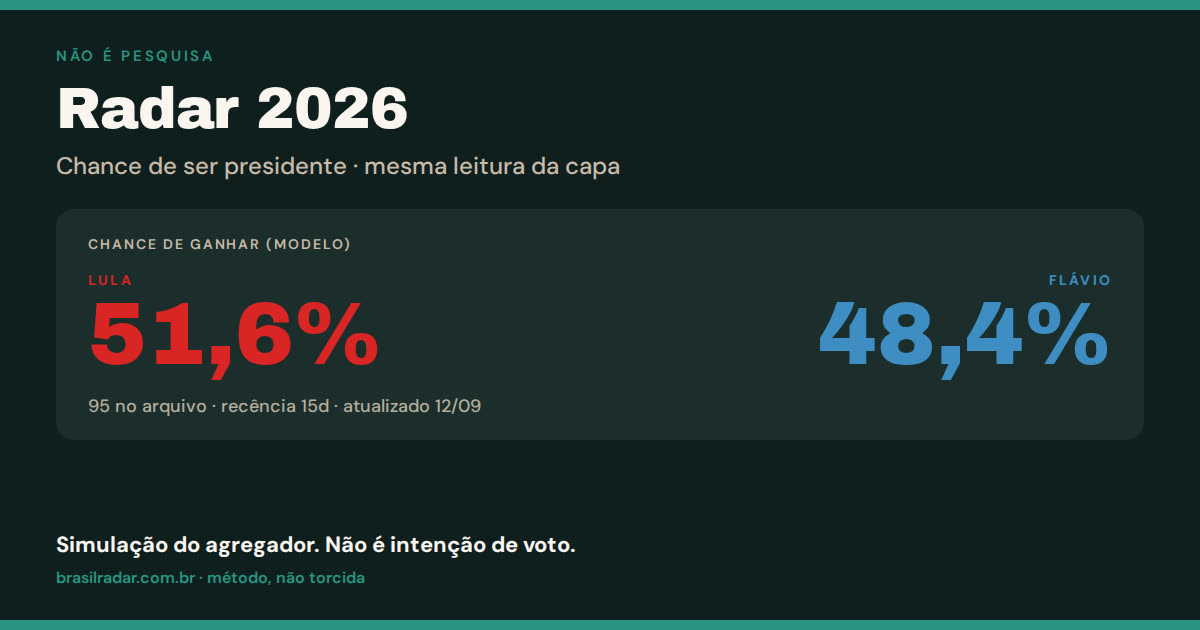
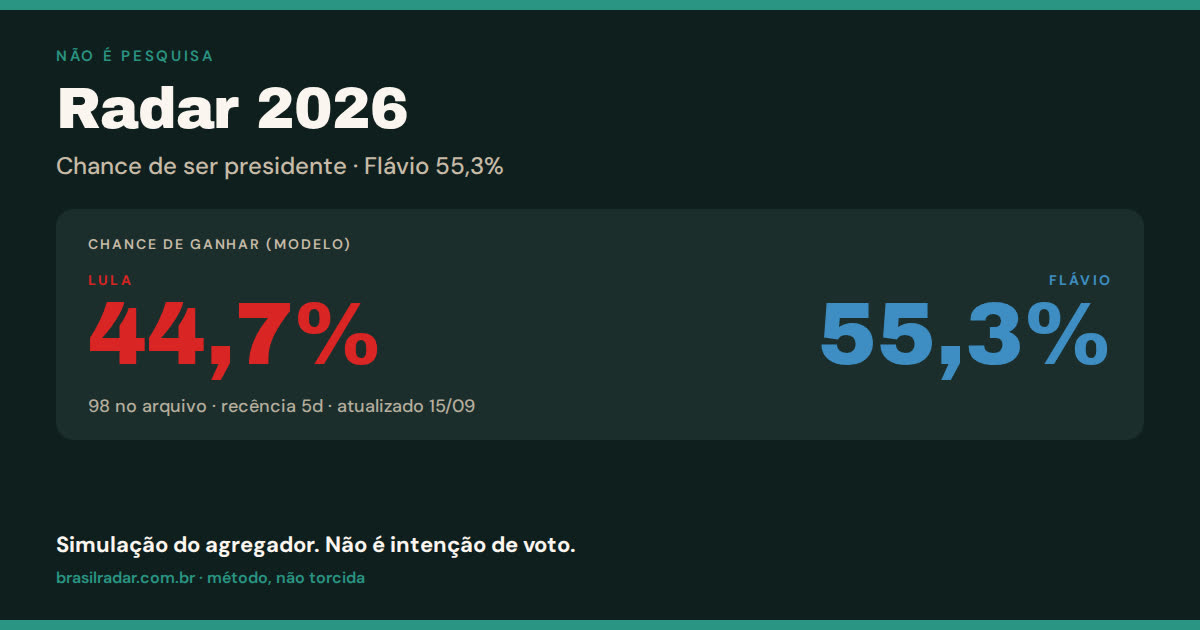
fix(p0): lock share/OG to hl=5, rebuild og.jpg, BTG 2T 47×46
Ignore ?hl= for og:title and share copy so crafted URLs cannot unfurl a
cherry-picked model. Regenerate public/og.jpg in prebuild from the live
default tip. Transcribe Nexus/BTG BR-04076 second round from Exame
(Lula 47 × Flávio 46). Unify shortHouseName; label chance as replay.

diff --git a/src/lib/i18n/messages.ts b/src/lib/i18n/messages.ts
@@ -5,10 +5,10 @@ export const pt = {
     title: "Radar 2026 · não é pesquisa",
     description:
       "Não é pesquisa. Agregador independente da eleição: presidente, governador e senador. Chance de ser presidente, mapa por estado, lista de urna.",
-    homeTitle: (pLula: string) =>
-      `Chance de ser presidente · Lula ${pLula} · Radar 2026`,
-    homeDescription: (pLula: string) =>
-      `Não é pesquisa. Agregador independente: todas as casas com registro TSE e números verificáveis. Chance de ser presidente: Lula ${pLula}. Governador e senador por estado.`,
+    homeTitle: (leader: string, pct: string) =>
+      `Chance de ser presidente · ${leader} ${pct} · Radar 2026`,
+    homeDescription: (pLula: string, pFlavio: string) =>
+      `Não é pesquisa. Agregador independente: todas as casas com registro TSE e números verificáveis. Chance de ser presidente: Lula ${pLula}, Flávio ${pFlavio}. Governador e senador por estado.`,
     labTitle: "Como a média pesa · Radar 2026",
     labDescription:
       "Não é pesquisa. Recência, teto por casa e acerto na urna 2014, 2018 e 2022. Laboratório do agregador.",
@@ -136,13 +136,13 @@ export const pt = {
     seriesAvg: "Média",
     seriesChance: "Chance",
     seriesAvgMeta: "intenção",
-    seriesChanceMeta: "modelo · 5",
+    seriesChanceMeta: "replay · 5",
     chanceKicker: "Chance do modelo",
     chanceTitle: "Chance de ser presidente",
     chanceLede:
-      "Não é pesquisa. Passo diário da chance de vitória no período 5.",
-    chanceTip: "Chance do modelo · período 5",
-    lineChance: "linha: chance do modelo",
+      "Não é pesquisa. Recálculo retroativo diário da chance de vitória no período 5.",
+    chanceTip: "Chance do modelo · replay período 5",
+    lineChance: "linha: chance do modelo (replay)",
   },
   tight: {
     aria: "Corridas apertadas",
@@ -409,10 +409,10 @@ export const en: Messages = {
     title: "Radar 2026 · not a poll",
     description:
       "Not a poll. Independent Brazil 2026 aggregator: president, governor and senator. Chance of winning the presidency, state map, ballot list.",
-    homeTitle: (pLula: string) =>
-      `Chance of winning the presidency · Lula ${pLula} · Radar 2026`,
-    homeDescription: (pLula: string) =>
-      `Not a poll. Independent aggregator: every TSE-registered house with verifiable numbers. Chance of winning: Lula ${pLula}. Governor and senator by state.`,
+    homeTitle: (leader: string, pct: string) =>
+      `Chance of winning the presidency · ${leader} ${pct} · Radar 2026`,
+    homeDescription: (pLula: string, pFlavio: string) =>
+      `Not a poll. Independent aggregator: every TSE-registered house with verifiable numbers. Chance of winning: Lula ${pLula}, Flávio ${pFlavio}. Governor and senator by state.`,
     labTitle: "How the average is weighted · Radar 2026",
     labDescription:
       "Not a poll. Recency, house cap and 2014, 2018 and 2022 track record. Radar lab.",
@@ -540,12 +540,13 @@ export const en: Messages = {
     seriesAvg: "Average",
     seriesChance: "Chance",
     seriesAvgMeta: "intention",
-    seriesChanceMeta: "model · 5",
+    seriesChanceMeta: "replay · 5",
     chanceKicker: "Model chance",
     chanceTitle: "Chance of becoming president",
-    chanceLede: "Not a poll. Daily step of win chance at period 5.",
-    chanceTip: "Model chance · period 5",
-    lineChance: "line: model chance",
+    chanceLede:
+      "Not a poll. Daily retrospective replay of win chance at period 5.",
+    chanceTip: "Model chance · replay period 5",
+    lineChance: "line: model chance (replay)",
   },
   tight: {
     aria: "Tight races",

diff --git a/src/features/radar/public/public-radar-page.tsx b/src/features/radar/public/public-radar-page.tsx
@@ -22,7 +22,7 @@ import {
 } from "@/lib/forecast/runoff-scenarios";
 import { extraVarCached, publicEngineConfig } from "@/lib/forecast/extra-var";
 import { fieldPeriodLine, fmtDelta, fmtMult, isShownTie, pairTightnessLine, shownGap } from "@/lib/format";
-import { useHalfLife, useHalfLifeDragging } from "@/lib/half-life";
+import { useHalfLife, useHalfLifeDragging, DEFAULT_HALF_LIFE } from "@/lib/half-life";
 import { keepRadarSearch, useI18n } from "@/lib/i18n";
 import { UF_CHIP_CODES, writeStoredUf } from "@/lib/site";
 import { trackRadar } from "@/lib/track";
@@ -379,6 +379,11 @@ export function PublicRadarPage() {
   );
 
   const forecast = useMemo(() => runForecast(polls, config), [config]);
+  const shareConfig = useMemo<EngineConfig>(
+    () => publicEngineConfig(asOf, DEFAULT_HALF_LIFE, extraVarPp),
+    [asOf, extraVarPp],
+  );
+  const shareForecast = useMemo(() => runForecast(polls, shareConfig), [shareConfig]);
   const { probs, rows, first, second } = forecast;
   const latestDayPolls = useMemo(() => pollsOnLatestDay(polls, asOf), [asOf]);
   const labMom = useMemo(() => {
@@ -444,12 +449,12 @@ export function PublicRadarPage() {
           <ShareBar
             compact
             asOf={fmt.date(config.asOf)}
-            lula1={first.lula.mean}
-            flavio1={first.flavio.mean}
-            lula2={second?.lula.mean ?? 0}
-            flavio2={second?.flavio.mean ?? 0}
-            pLula={probs.lulaWinsElection}
-            pFlavio={probs.flavioWinsElection}
+            lula1={shareForecast.first.lula.mean}
+            flavio1={shareForecast.first.flavio.mean}
+            lula2={shareForecast.second?.lula.mean ?? 0}
+            flavio2={shareForecast.second?.flavio.mean ?? 0}
+            pLula={shareForecast.probs.lulaWinsElection}
+            pFlavio={shareForecast.probs.flavioWinsElection}
           />
 
         </div>

diff --git a/src/lib/page-meta.ts b/src/lib/page-meta.ts
@@ -4,7 +4,7 @@ import { pollsFor } from "@/data/race-polls";
 import { extraVarCached, publicEngineConfig } from "@/lib/forecast/extra-var";
 import { runForecast, todayAsOf } from "@/lib/forecast/engine";
 import { fmtPct, fmtProb } from "@/lib/format";
-import { DEFAULT_HALF_LIFE, parseHalfLifeParam } from "@/lib/half-life";
+import { DEFAULT_HALF_LIFE } from "@/lib/half-life";
 import { parseAsOfParam } from "@/lib/as-of";
 import { messages, type Locale } from "@/lib/i18n";
 import { parseLocale } from "@/lib/i18n/locale";
@@ -55,12 +55,19 @@ export function homeHead(search: Record<string, unknown>): PageHead {
   const locale = localeOf(search);
   const copy = messages(locale);
   const asOf = parseAsOfParam(search.asOf) ?? todayAsOf();
-  const hl = parseHalfLifeParam(search.hl) ?? DEFAULT_HALF_LIFE;
+  // Share/OG always use the public default model. Ignore ?hl= so a crafted
+  // URL cannot unfurl a cherry-picked half-life as if it were the site tip.
+  const hl = DEFAULT_HALF_LIFE;
   const extraVarPp = extraVarCached(publicEngineConfig(asOf, hl));
   const forecast = runForecast(polls, publicEngineConfig(asOf, hl, extraVarPp));
   const pLula = fmtProb(forecast.probs.lulaWinsElection, 1, locale);
-  const title = copy.meta.homeTitle(pLula);
-  const description = copy.meta.homeDescription(pLula);
+  const pFlavio = fmtProb(forecast.probs.flavioWinsElection, 1, locale);
+  const lulaLeads =
+    forecast.probs.lulaWinsElection >= forecast.probs.flavioWinsElection;
+  const leader = lulaLeads ? "Lula" : "Flávio";
+  const leaderPct = lulaLeads ? pLula : pFlavio;
+  const title = copy.meta.homeTitle(leader, leaderPct);
+  const description = copy.meta.homeDescription(pLula, pFlavio);
   return {
     title,
     description,

diff --git a/scripts/og-card.html b/scripts/og-card.html
@@ -116,21 +116,21 @@
   <div class="frame">
     <p class="kicker">Não é pesquisa</p>
     <h1>Radar 2026</h1>
-    <p class="sub">Chance de ser presidente · mesma leitura da capa</p>
+    <p class="sub">Chance de ser presidente · {{LEADER}} {{LEADER_PCT}}</p>
     <div class="cards">
       <div class="card">
         <p class="card-label">Chance de ganhar (modelo)</p>
         <div class="row">
           <div class="col">
             <p class="name lula">Lula</p>
-            <p class="pct lula">51,6%</p>
+            <p class="pct lula">{{LULA_PCT}}</p>
           </div>
           <div class="col right">
             <p class="name flavio">Flávio</p>
-            <p class="pct flavio">48,4%</p>
+            <p class="pct flavio">{{FLAVIO_PCT}}</p>
           </div>
         </div>
-        <p class="meta">95 no arquivo · recência 15d · atualizado 12/09</p>
+        <p class="meta">{{POLL_COUNT}} no arquivo · recência {{HL}}d · atualizado {{ASOF}}</p>
       </div>
     </div>
     <div class="foot">

diff --git a/src/components/share-bar.tsx b/src/components/share-bar.tsx
@@ -4,7 +4,7 @@ import { Check, Copy } from "lucide-react";
 import { fmtPct, fmtProb } from "@/lib/format";
 import { useI18n, type Locale } from "@/lib/i18n";
 import { messages } from "@/lib/i18n/messages";
-import { SITE, locationUrl } from "@/lib/site";
+import { SITE, shareLocationUrl } from "@/lib/site";
 import { trackRadar } from "@/lib/track";
 
 type Props = {
@@ -54,7 +54,7 @@ export function ShareBar(props: Props) {
   const [copied, setCopied] = useState(false);
   const pathname = useRouterState({ select: (s) => s.location.pathname });
   const search = useSearch({ strict: false }) as Record<string, unknown>;
-  const href = props.url ? shareHref(props.url) : locationUrl(pathname, search);
+  const href = props.url ? shareHref(props.url) : shareLocationUrl(pathname, search);
   const text = sharePayload({ ...props, url: href }, locale);
   const compact = Boolean(props.compact);
   const copyLabel = copied ? m.share.copied : m.share.copy;

diff --git a/src/lib/site.ts b/src/lib/site.ts
@@ -66,6 +66,15 @@ export function locationUrl(
   return `${SITE}${pathname}${qs ? `?${qs}` : ""}`;
 }
 
+/** Share/unfurl URL: never carry ?hl= so the link opens the default model. */
+export function shareLocationUrl(
+  pathname: string,
+  search: Record<string, unknown>,
+): string {
+  const { hl: _hl, halfLife: _halfLife, ...rest } = search;
+  return locationUrl(pathname, rest);
+}
+
 export type SitemapEntry = { loc: string; changefreq: string; priority: string };
 
 export function sitemapEntries(): SitemapEntry[] {

diff --git a/src/lib/visit-delta.ts b/src/lib/visit-delta.ts
@@ -1,6 +1,7 @@
 import { dateShort, fieldPeriodLine, fmtDelta, round } from "./format.ts";
 import type { Locale } from "./i18n/locale.ts";
 import { messages } from "./i18n/messages.ts";
+import { shortHouseName } from "./chance-marks.ts";
 
 export const VISIT_KEY = "radar2026.visit.v1";
 
@@ -133,7 +134,7 @@ export function visitView(
 }
 
 function shortHouse(name: string): string {
-  return name.split("/")[0] ?? name;
+  return shortHouseName(name);
 }
 
 export function fileStamp(
